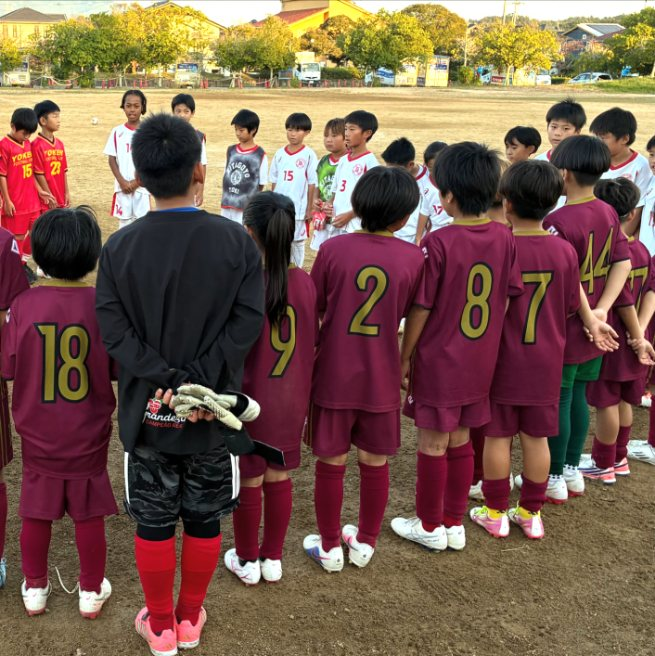
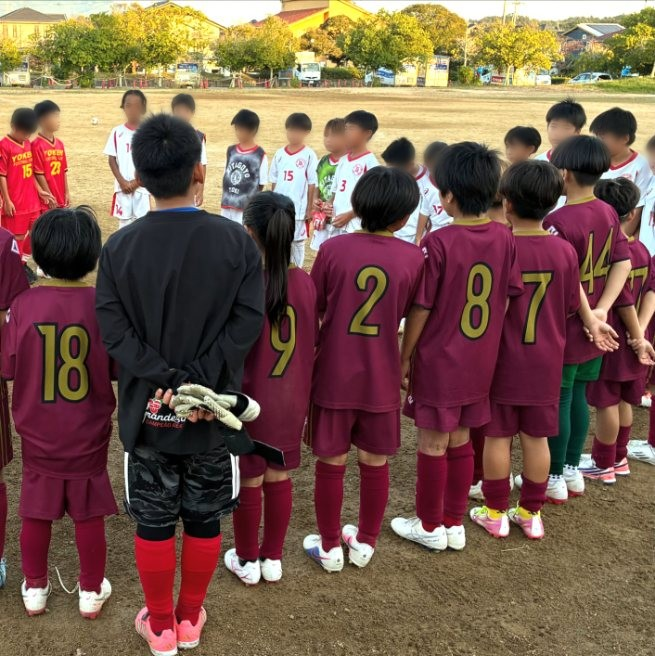
整列写真の相手チームの顔にやんわりぼかし

diff --git a/index.html b/index.html
@@ -427,7 +427,7 @@ footer b{font-family:var(--f-display);font-weight:900;letter-spacing:.1em;color:
 
 <section class="band" aria-labelledby="lv-h">
   <div class="wrap level">
-    <img src="img/lineup.jpg" alt="試合後に整列する選手たち">
+    <img src="img/lineup.jpg?v=2" alt="試合後に整列する選手たち">
     <div>
       <p class="eyebrow">Environment</p>
       <h2 id="lv-h"><span class="p">憧れるのではなく、</span><br><span class="p">そのレベルを</span><span class="p">自分の基準に。</span></h2>
@@ -466,7 +466,7 @@ footer b{font-family:var(--f-display);font-weight:900;letter-spacing:.1em;color:
       <a href="https://www.instagram.com/egoamigo2026/" target="_blank" rel="noopener"><img src="img/indoor.jpg" alt="CABOサッカースクールとのトレーニングマッチ"></a>
       <a href="https://www.instagram.com/egoamigo2026/" target="_blank" rel="noopener"><img src="img/stairs.jpg" alt="走りに特化したトレーニング"></a>
       <a href="https://www.instagram.com/egoamigo2026/" target="_blank" rel="noopener"><img src="img/night.jpg" alt="ナイターの練習"></a>
-      <a href="https://www.instagram.com/egoamigo2026/" target="_blank" rel="noopener"><img src="img/lineup.jpg" alt="トレーニングマッチ後の整列"></a>
+      <a href="https://www.instagram.com/egoamigo2026/" target="_blank" rel="noopener"><img src="img/lineup.jpg?v=2" alt="トレーニングマッチ後の整列"></a>
       <a href="https://www.instagram.com/egoamigo2026/" target="_blank" rel="noopener"><img src="img/uniform.jpg" alt="EGO AMIGOのユニフォーム"></a>
     </div>
     <div class="feed-more"><a class="btn ghost" href="https://www.instagram.com/egoamigo2026/" target="_blank" rel="noopener">Instagramでもっと見る</a></div>
